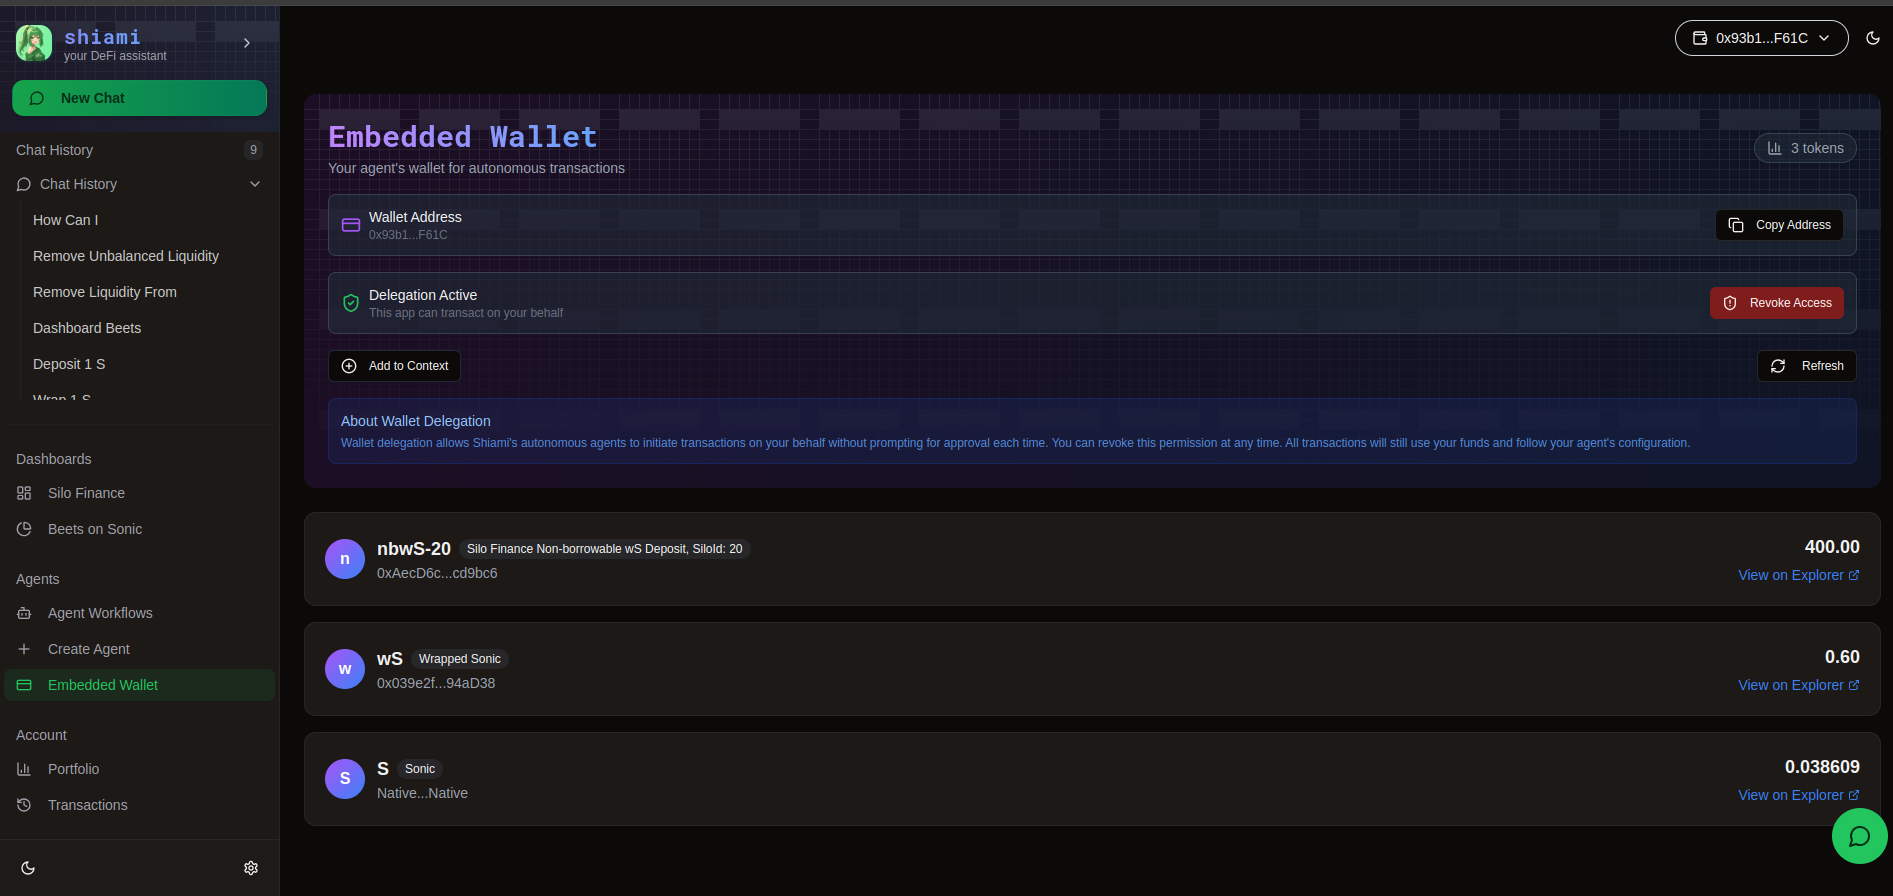
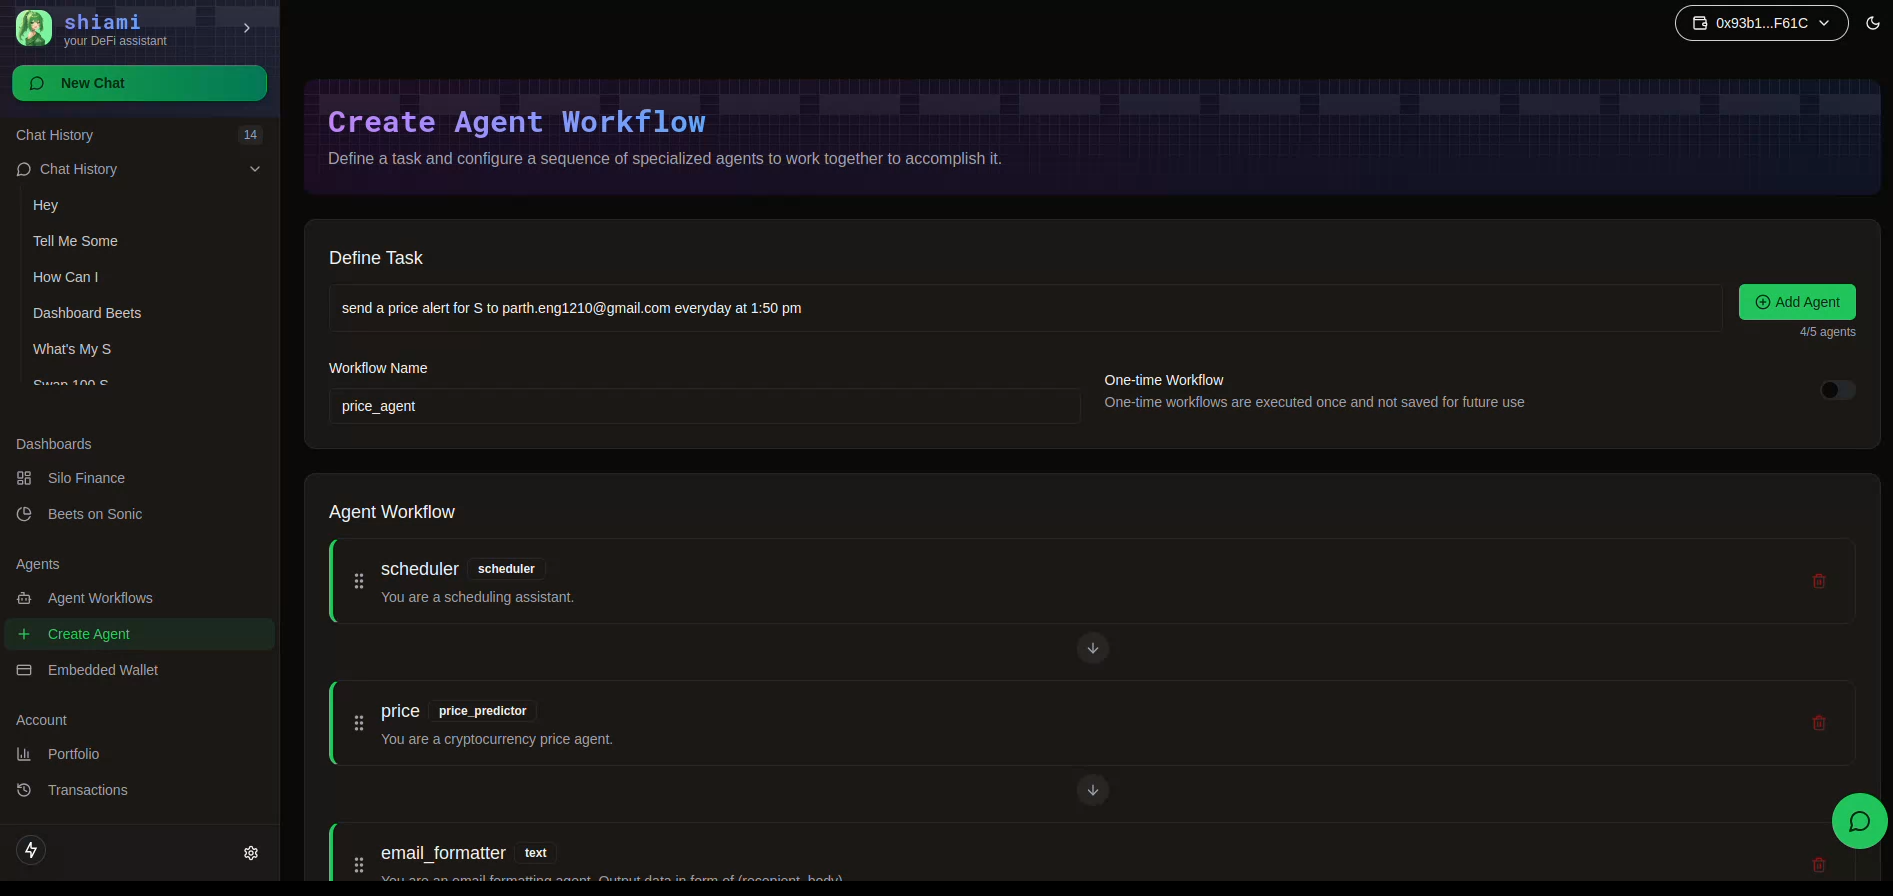
GITBOOK-46: No subject

diff --git a/getting-started/what-can-shiami-do/agent-workflows.md b/getting-started/what-can-shiami-do/agent-workflows.md
@@ -4,13 +4,13 @@ description: Automate On-chain tasks using AI Agent workflows
 
 # Agent Workflows
 
-<figure><img src="../../.gitbook/assets/image.png" alt=""><figcaption><p><a href="https://www.shiami.me/dashboard/create-agent">https://www.shiami.me/dashboard/create-agent</a></p></figcaption></figure>
+<figure><img src="../../.gitbook/assets/image (1).png" alt=""><figcaption><p><a href="https://www.shiami.me/dashboard/create-agent">https://www.shiami.me/dashboard/create-agent</a></p></figcaption></figure>
 
 ### Create Agent Workflows
 
 1. (Optional) Delegate your Privy Embedded Wallet for allowing Shiami to execute transactions on your behalf
 
-<figure><img src="../../.gitbook/assets/image (1).png" alt=""><figcaption></figcaption></figure>
+<figure><img src="../../.gitbook/assets/image (1) (1).png" alt=""><figcaption></figcaption></figure>
 
 2.  Navigate to the Create Agent page and create your agent workflow
 

diff --git a/getting-started/what-can-shiami-do/pendle-on-shiami.md b/getting-started/what-can-shiami-do/pendle-on-shiami.md
@@ -7,6 +7,8 @@ You can interact with Pendle in two ways:
 1. **Natural language commands** - Simply type what you want to do
 2. **Specialized Pendle Dashboard(of course)**
 
+<figure><img src="../../.gitbook/assets/image.png" alt=""><figcaption><p><a href="https://www.shiami.me/dashboard/pendle">https://www.shiami.me/dashboard/pendle</a></p></figcaption></figure>
+
 ### Exploring Markets and Assets
 
 #### Viewing All Markets
@@ -52,6 +54,8 @@ Show me all Pendle PT tokens
 ```
 
 ### Providing Liquidity
+
+<figure><img src="../../.gitbook/assets/ezgif-3c3598b2a384c3.gif" alt=""><figcaption></figcaption></figure>
 
 #### Adding Single-token Liquidity
 
